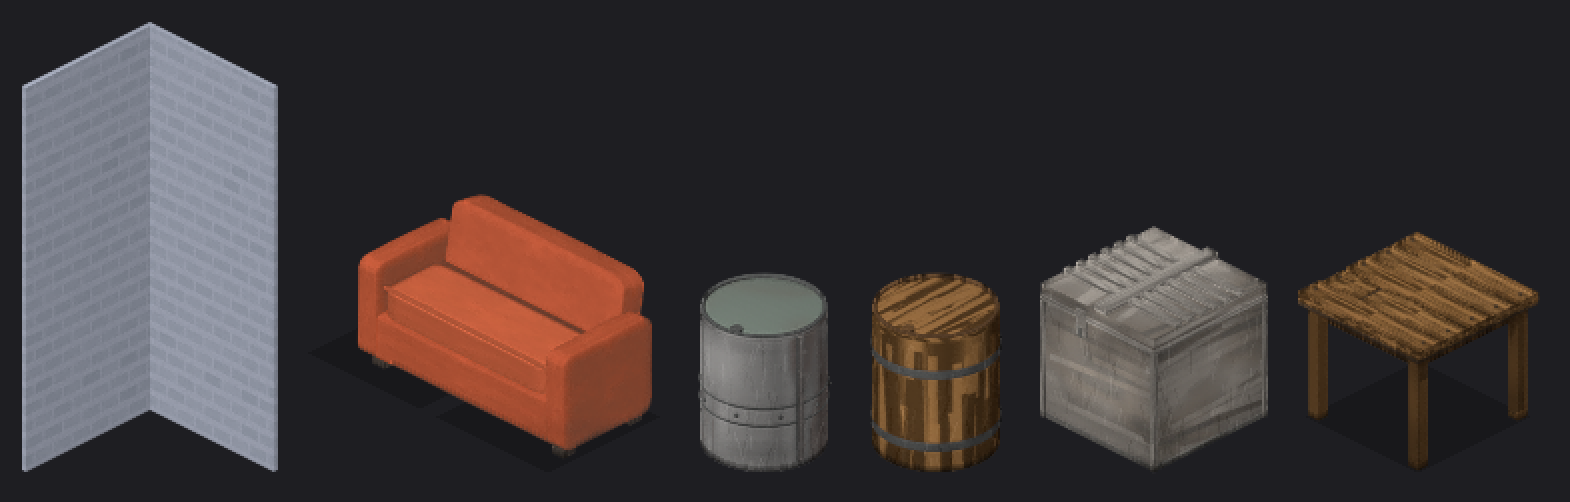
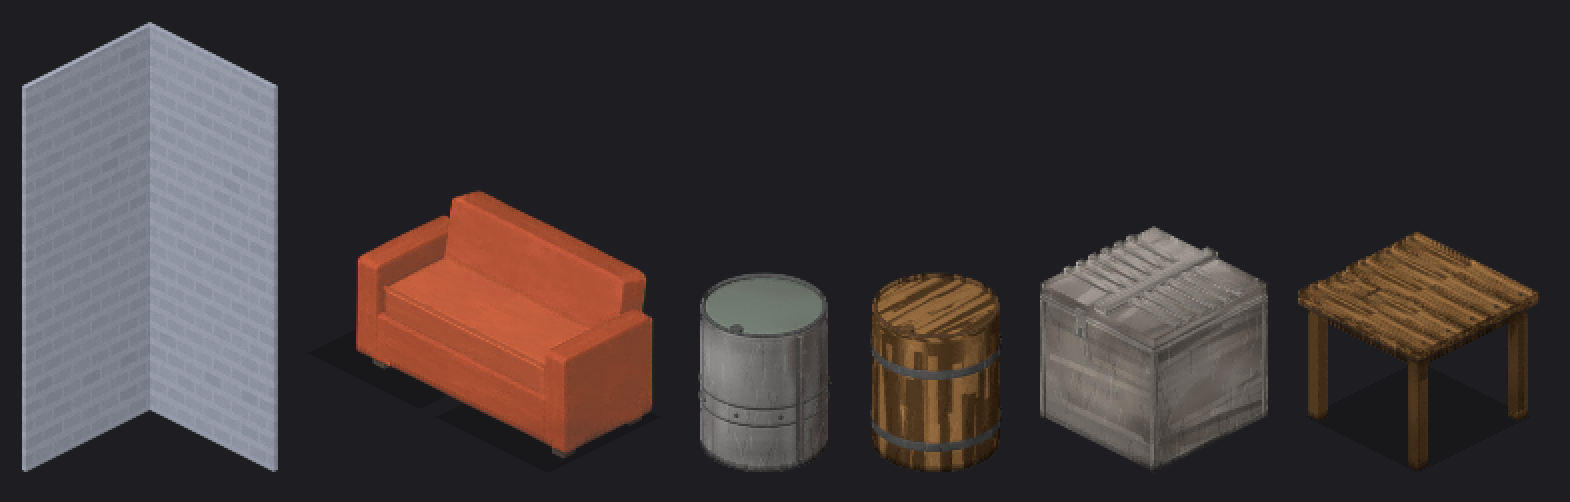
sofa: tuck the cushion into the backrest, drop the back crease strip
The seat-to-backrest line was still reading a class heavier than every
other line on the couch, because that seam alone stacked three drawings:
the crease strip's dark fill plus finish accents on BOTH of the strip's
element boundaries. The cushion now tucks into the backrest and the seam
is what every other junction is -- one element boundary plus contact
shading, a single 1-2 px line.

diff --git a/examples/sofa.py b/examples/sofa.py
@@ -153,13 +153,17 @@ def build_sofa() -> list[bpy.types.Object]:
 
     # One long seat cushion, read straight off the reference -- the two sunken
     # pads of v1 were an invention.
-    # The cushion fills the well: hugging the arms (0.02 side margin) and
-    # running to 0.10 of the front edge -- with the first build's 0.06/0.16
-    # margins the exposed base read as the seat being too short and shallow.
+    # The cushion fills the well: hugging the arms (0.02 side margin), running
+    # to 0.10 of the front edge, and TUCKED INTO the backrest at the rear --
+    # with the first build's 0.06/0.16 margins the exposed base read as the
+    # seat being too short and shallow, and a gap at the back needed a crease
+    # strip whose two element boundaries drew a triple line at the junction.
     seat_len = LENGTH - 2 * ARM_W - 0.02
-    seat_depth = DEPTH - BACK_T - 0.10
+    seat_front = -0.12 - (DEPTH - BACK_T - 0.10) / 2
+    seat_rear = DEPTH / 2 - BACK_T - 0.01 + 0.03
+    seat_depth = seat_rear - seat_front
     seat_z = FOOT_H + BASE_H + SEAT_H / 2 - 0.03
-    box("seat", (CX, -0.09 - 0.03, seat_z),
+    box("seat", (CX, (seat_front + seat_rear) / 2, seat_z),
         (seat_len, seat_depth, SEAT_H), cushion_mat)
 
     # Piping: the sewn welt along cushion edges -- one of the three painted
@@ -173,19 +177,20 @@ def build_sofa() -> list[bpy.types.Object]:
                                 dark=(0.902, 0.207, 0.083),
                                 light=(0.920, 0.225, 0.092),
                                 texture_scale=1.3)
-    box("pipe_seat", (CX, -0.09 - 0.03 - seat_depth / 2 + 0.02,
+    box("pipe_seat", (CX, seat_front + 0.02,
                       seat_z + SEAT_H / 2 - 0.005),
         (seat_len + 0.01, 0.022, 0.018), pipe_mat, soft=True)
 
-    # Crease shadows: behind the seat at the backrest junction, and under the
-    # seat's front lip. Vanilla draws each crease as a THIN 1-2 px line at
-    # value ~126: a 0.03-tall proud block read as a thick outline, and a
-    # 0.014 (sub-pixel) strip aliased into a DOTTED line on the 2:1 diagonal
-    # -- the mysterious black specks. 0.026 = 2 px, the thinnest continuous
-    # line the projection can hold.
-    box("crease_back", (CX, DEPTH / 2 - BACK_T - 0.022, seat_z - 0.02),
-        (seat_len + 0.02, 0.016, SEAT_H - 0.02), crease_mat, soft=False)
-    box("crease_front", (CX, -0.09 - 0.03 - seat_depth / 2 + 0.024,
+    # Crease shadow under the seat's front lip only. Vanilla draws a crease
+    # as a THIN 1-2 px line at value ~126: a 0.03-tall proud block read as a
+    # thick outline, and a 0.014 (sub-pixel) strip aliased into a DOTTED line
+    # on the 2:1 diagonal -- the mysterious black specks. 0.026 = 2 px, the
+    # thinnest continuous line the projection can hold. There is NO crease
+    # strip at the backrest: the tucked cushion meets the back directly, so
+    # the junction is one element boundary plus contact shading -- a strip
+    # there put its dark fill and BOTH its boundaries' finish accents into
+    # one seam, which read as a line three times heavier than every other.
+    box("crease_front", (CX, seat_front + 0.024,
                          seat_z - SEAT_H / 2 - 0.002),
         (seat_len + 0.02, 0.03, 0.026), crease_mat, soft=False)
 
